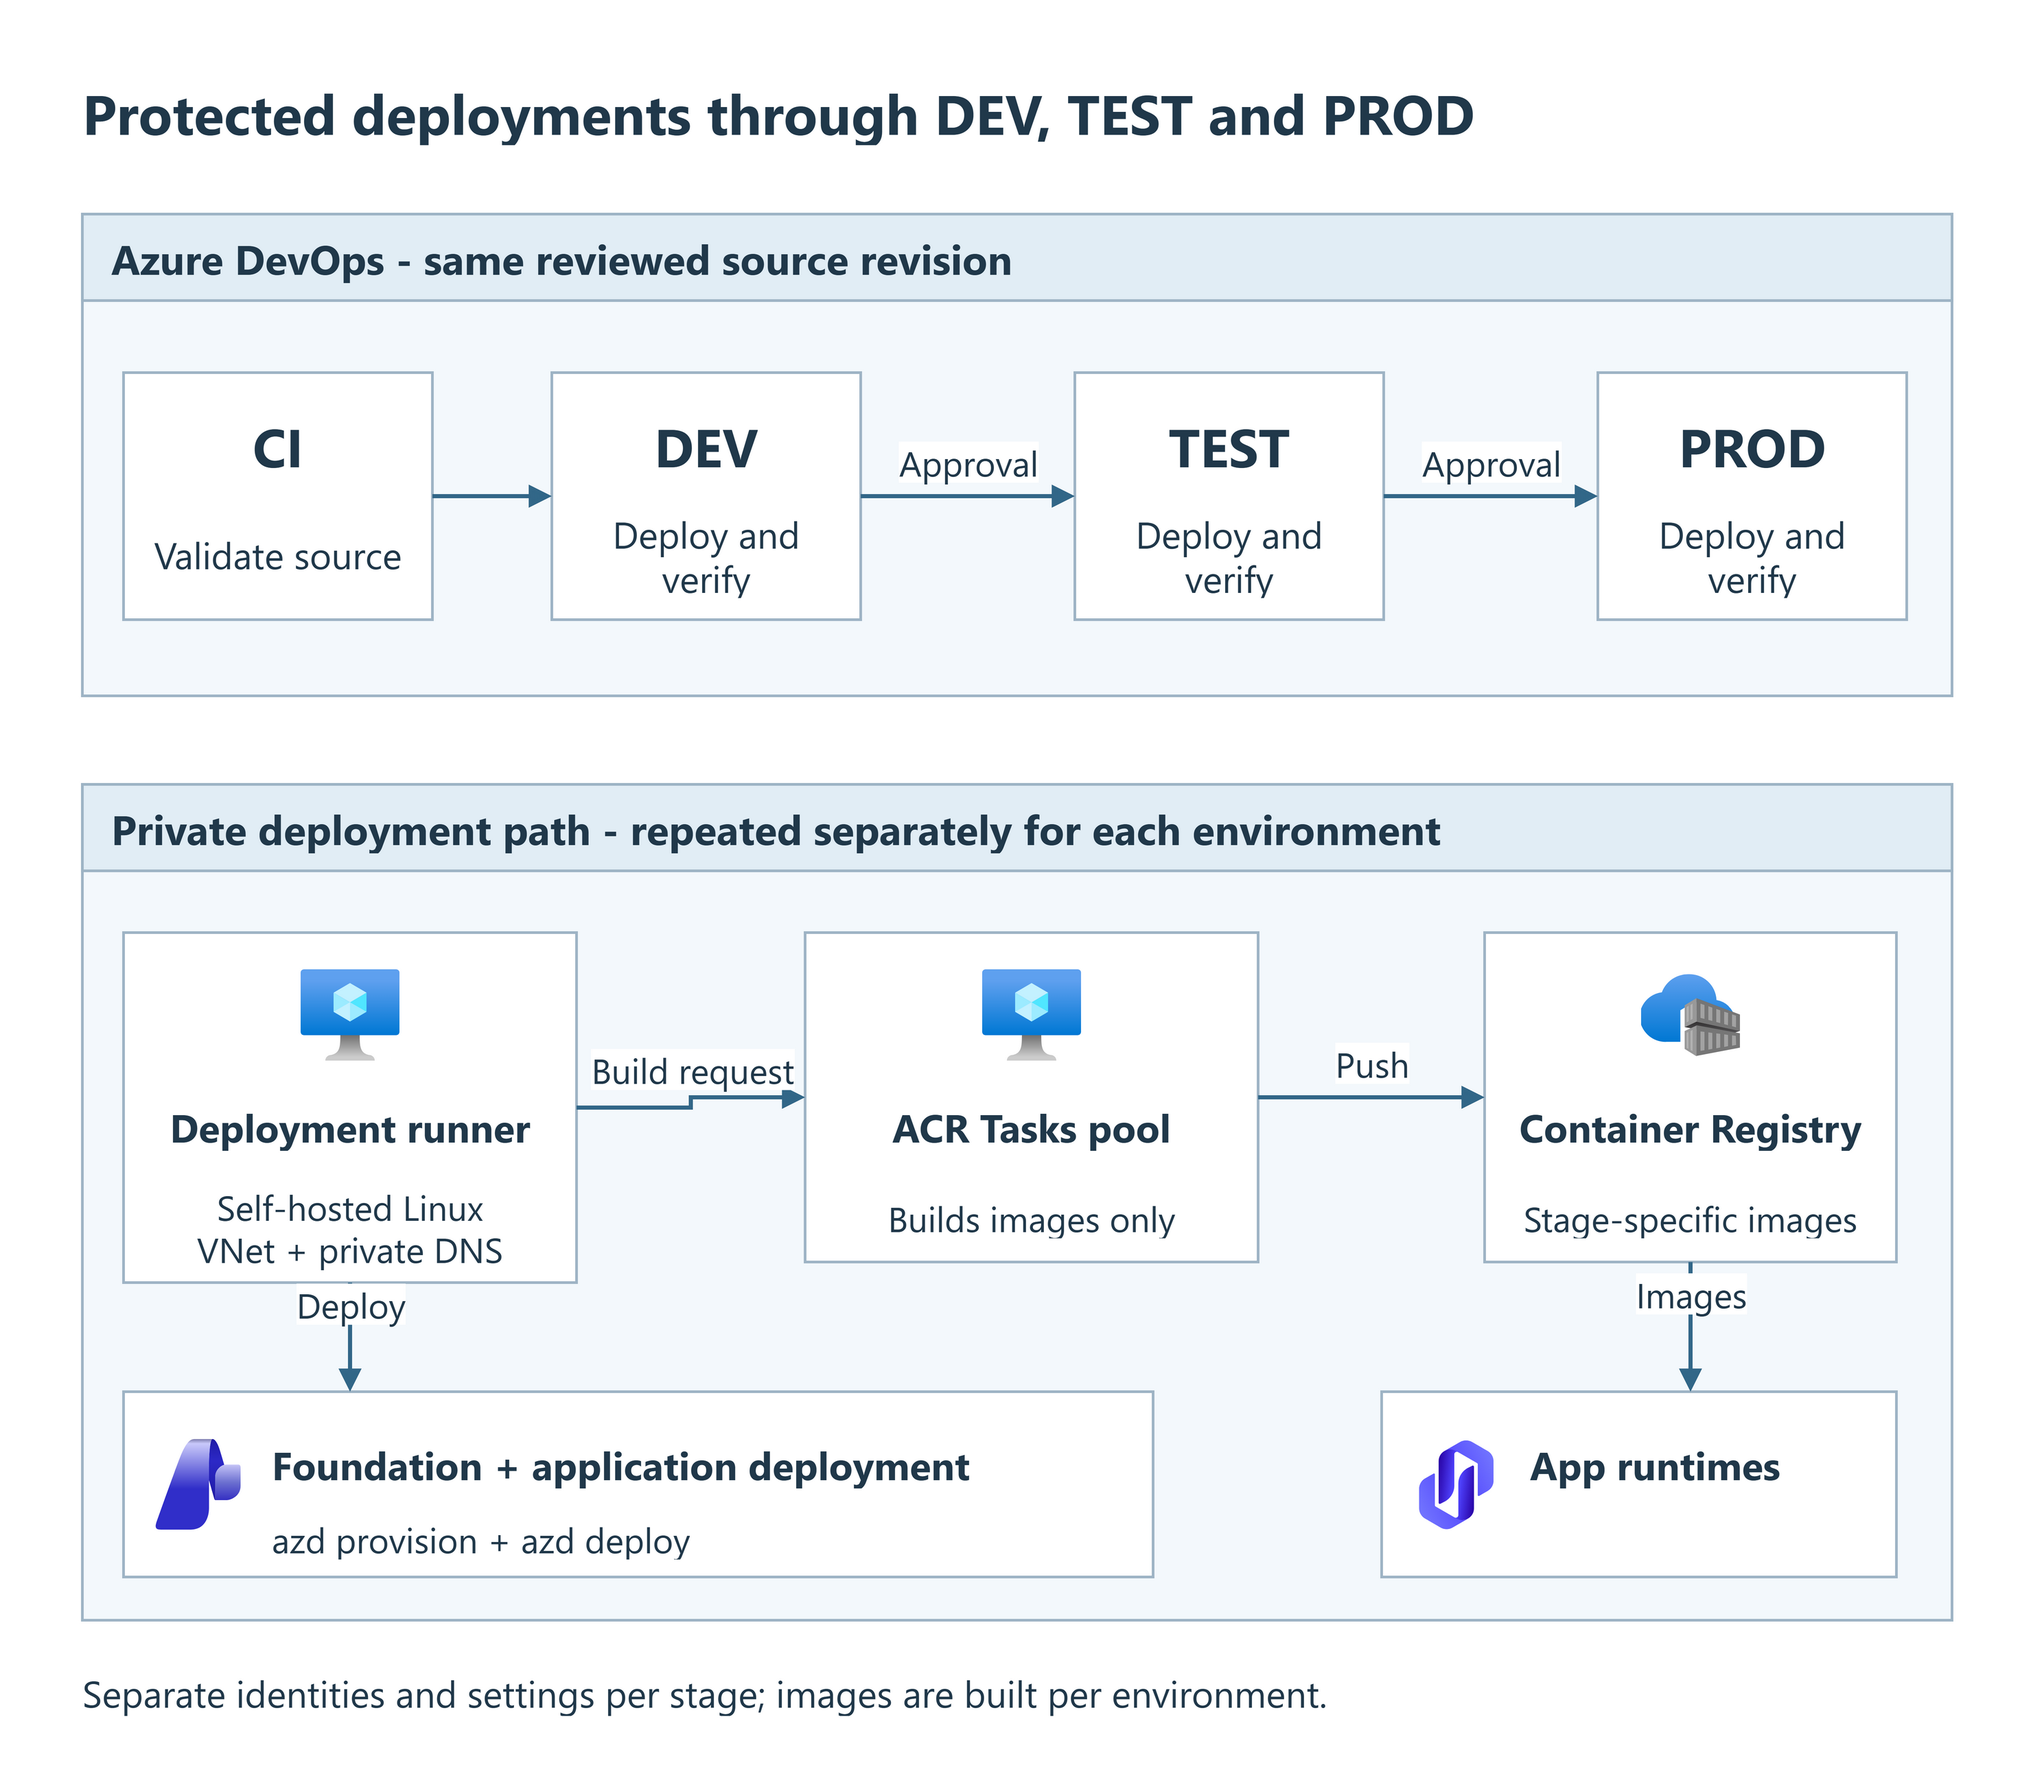
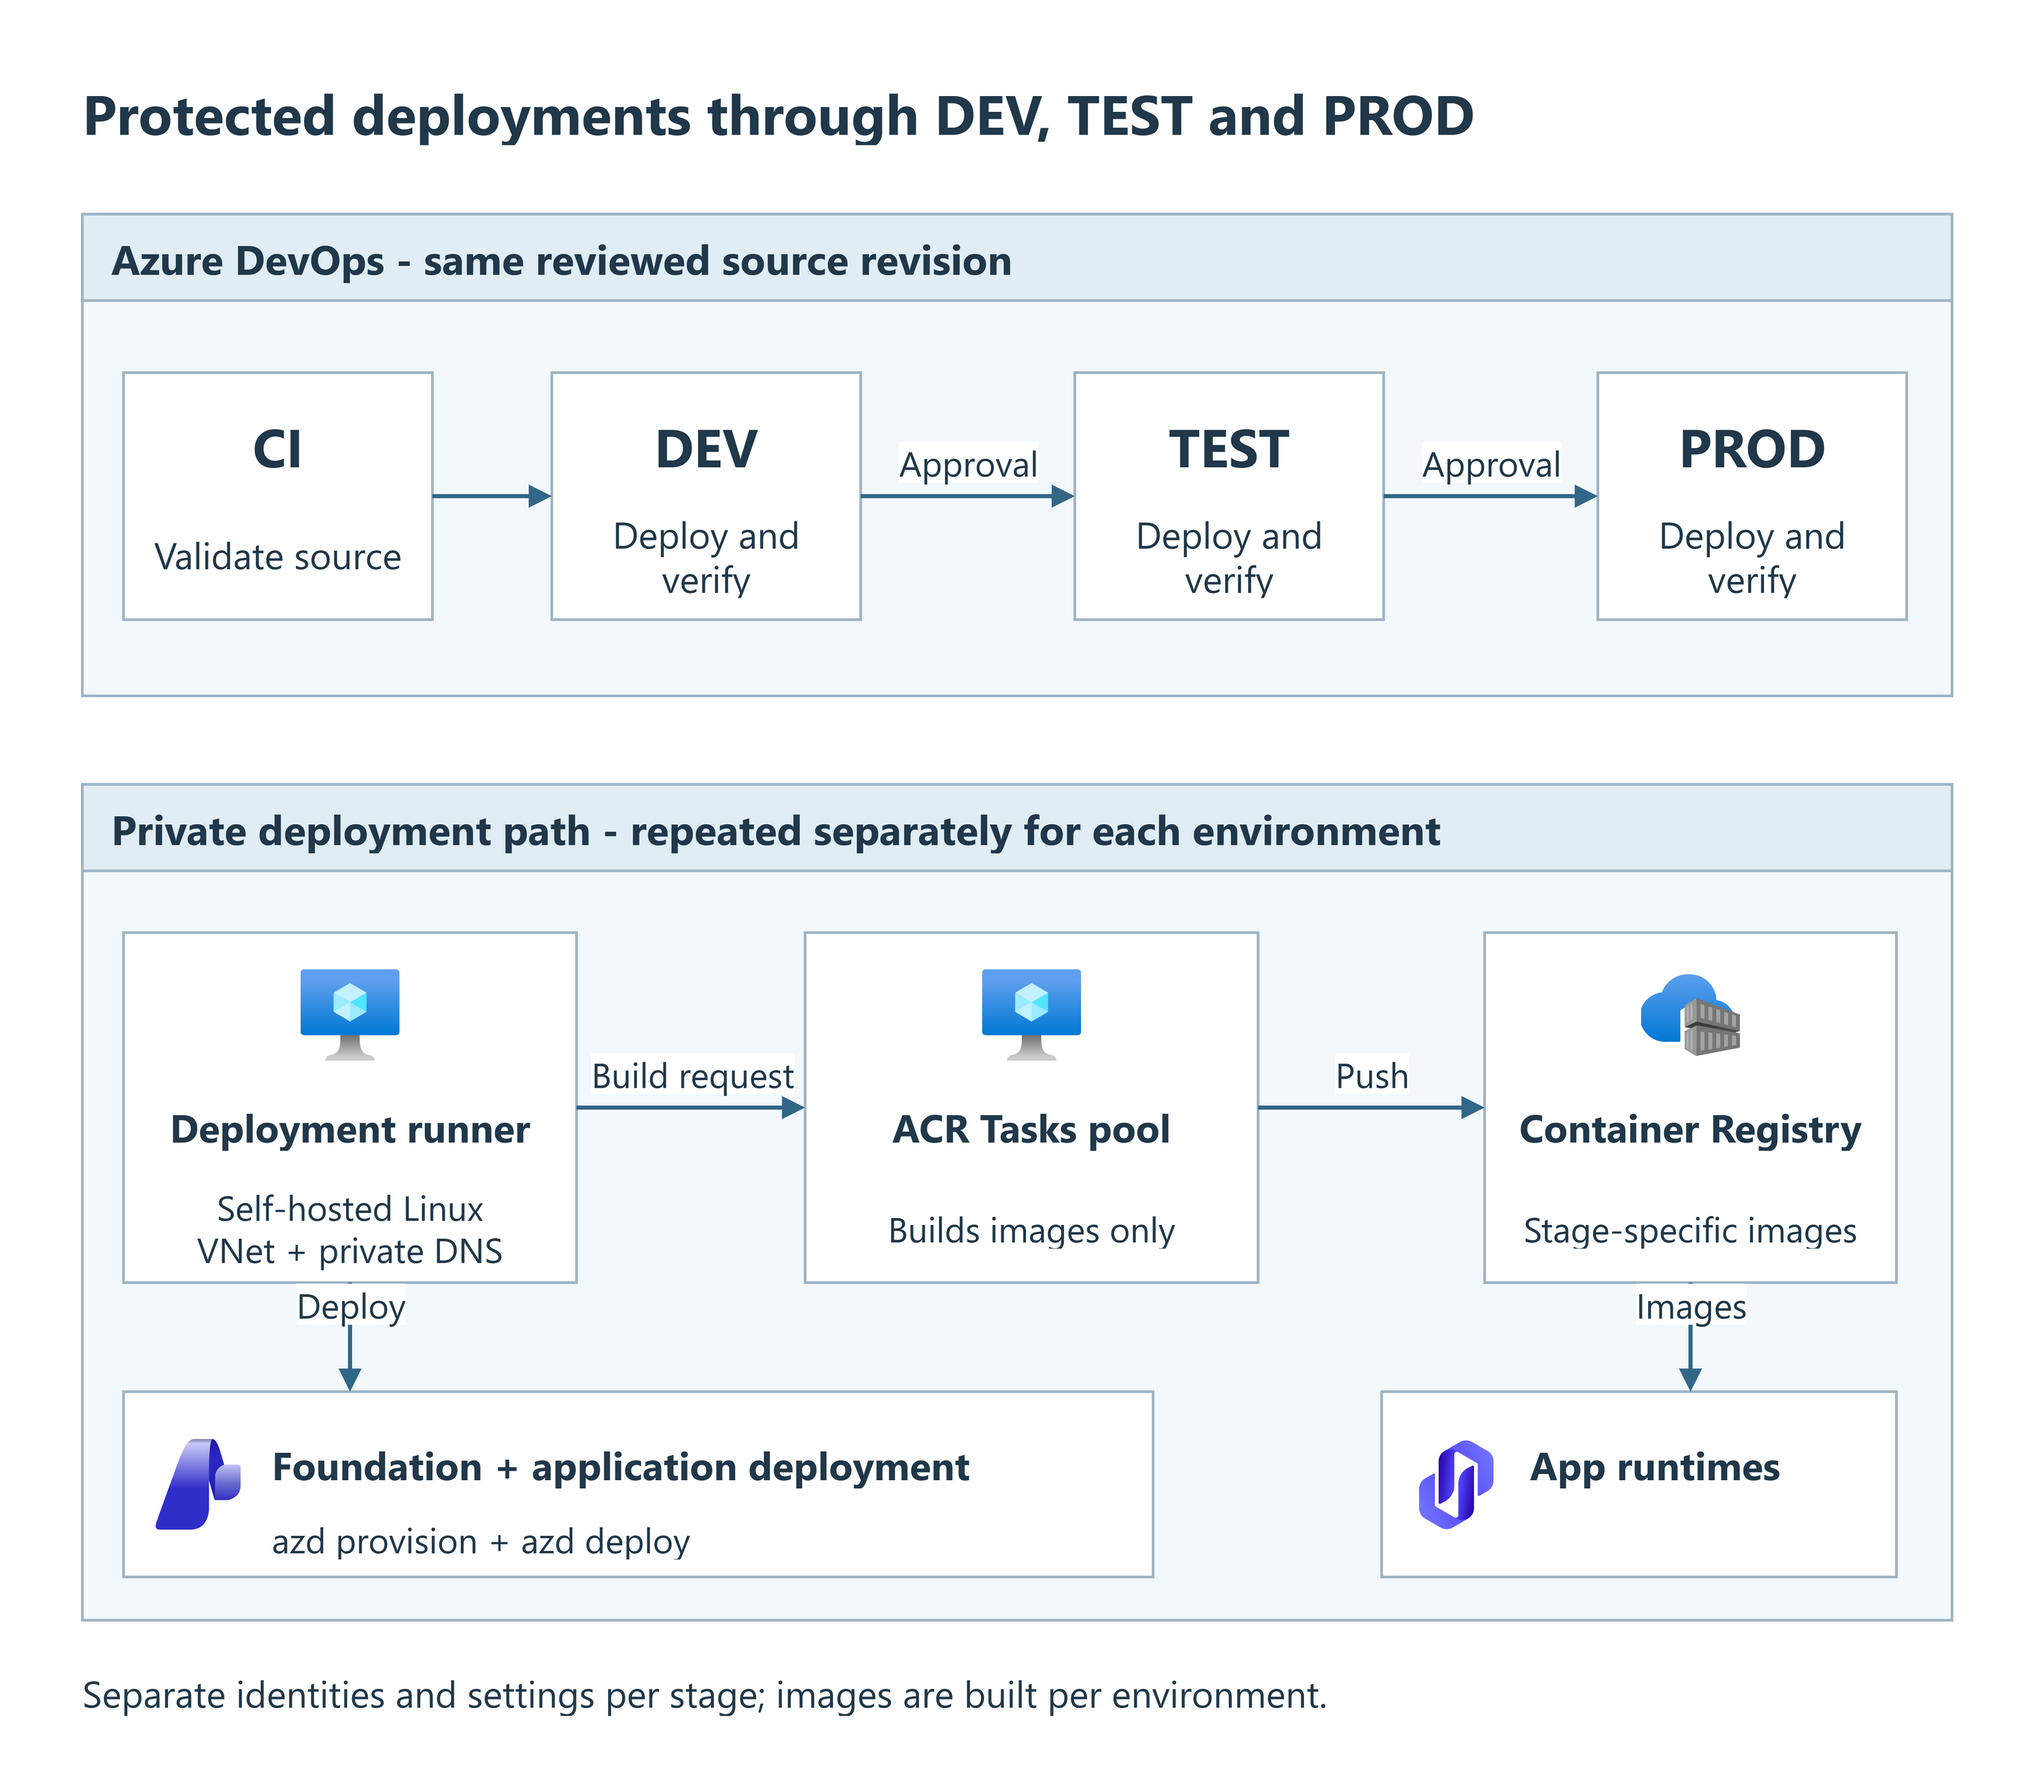
docs: clarify public Activity ingress and straighten runbook arrows

diff --git a/docs/agent-landing-zone/publish-to-teams.md b/docs/agent-landing-zone/publish-to-teams.md
@@ -18,9 +18,17 @@ template does not perform them.
 Your existing Foundry agent available in Teams and Microsoft 365 Copilot,
 with authenticated messages delivered through Azure Bot Service.
 
-![Teams and Microsoft 365 Copilot reach the hosted agent through Bot Service and restricted public Activity ingress. A separate setup path connects an admin workstation through a private endpoint to the Foundry project API.](../media/runbooks/publish-to-teams.png)
+!!! warning "This channel path is not private end to end"
+    Teams and Microsoft 365 Copilot deliver messages to a **public HTTPS
+    Activity endpoint**, restricted to Microsoft channel source IPs and
+    requiring authentication. They do **not** use the Foundry private endpoint.
 
-[Open the full-resolution diagram](../media/runbooks/publish-to-teams.png).
+    If your organization requires no public agent ingress, do not use this
+    publication path.
+
+![Teams and Microsoft 365 Copilot use Bot Service and a public HTTPS Activity route with source IP filtering and authentication. This is a scoped exception to disabled public network access, not Private Link. Publication setup uses a separate private endpoint path.](../media/runbooks/publish-to-teams.png?v=public-activity)
+
+[Open the full-resolution diagram](../media/runbooks/publish-to-teams.png?v=public-activity).
 
 The dashed path is for publication setup and later changes, not for Teams
 conversations.
@@ -31,13 +39,23 @@ Use this runbook after the hosted agent works and you need Teams or Microsoft
 365 Copilot distribution while Foundry public network access remains disabled. For a Copilot
 Studio private relay instead, use [Connect Copilot Studio](connect-copilot-studio.md).
 
-Foundry and Bot Service keep **public network access (PNA) disabled**. Following
-the [Foundry REST publishing flow](https://learn.microsoft.com/azure/foundry/agents/how-to/publish-copilot-virtual-network),
-you enable a restricted public HTTPS exception for the Activity route.
+Microsoft calls this a **source IP-filtered Activity Protocol public
+endpoint**: a public endpoint for the messaging route, restricted by the
+source IP addresses of Microsoft's channel services. See the
+[Foundry REST publishing flow](https://learn.microsoft.com/azure/foundry/agents/how-to/publish-copilot-virtual-network).
 
-Foundry allows only service-managed Microsoft channel source ranges and still
-requires authentication and authorization. Channel delivery uses this
-exception, not the Foundry private endpoint.
+Step 3 sets `activity.enable_m365_public_endpoint=true` to enable that
+**specific exception**. Foundry and Bot Service keep **public network access
+(PNA) disabled**; management APIs and other agent protocols remain private.
+
+| Path | Network access |
+| --- | --- |
+| Bot Service to the Activity endpoint | Public HTTPS, with Microsoft-managed source IP filtering and authentication. Not Private Link. |
+| Connected workstation to the Foundry project API | Private endpoint, for publication setup and later changes. |
+
+Microsoft manages the allowed source ranges. You do not open public ingress
+on your VNet. An allowed source IP still needs valid authentication and
+authorization; **public does not mean anonymous**.
 
 During setup, your connected workstation calls the **Foundry project API**
 through the private endpoint to read the agent configuration, enable Activity
@@ -291,9 +309,9 @@ URL, and its network setting is `"pna": "Disabled"`. The bot uses the agent's
 identity; you do not need a client secret, public VNet ingress or a custom
 connector.
 
-### Step 3: Enable the restricted Activity route
+### Step 3: Enable the source-IP-filtered public Activity route
 
-Run the block below to enable the restricted Activity route, apply the Bot
+Run the block below to enable the **public HTTPS Activity exception**, apply the Bot
 Service authorization scheme for your chosen audience and send traffic to the
 tested agent version. The block reads the current configuration so it can
 preserve the existing protocols and non-Bot authorization schemes. It also

diff --git a/docs/agent-landing-zone/network-isolation.md b/docs/agent-landing-zone/network-isolation.md
@@ -46,8 +46,13 @@ precedence in [Deployment settings](configuration.md#general) still apply.
 !!! note "Teams and Microsoft 365 Copilot publication"
     [Publish to Teams and M365](publish-to-teams.md) adds a manual, source-IP-filtered
     public exception for the Foundry Activity route while Foundry and Bot Service
-    public network access stays disabled. Channel delivery does not use Private
-    Link; other Foundry APIs remain private. The template does not enable this exception.
+    public network access stays disabled. Microsoft calls this a **source
+    IP-filtered Activity Protocol public endpoint**.
+
+    Channel messages use **public HTTPS, not Private Link**, so this path is
+    **not private end to end**. If public agent ingress is prohibited, do not
+    use that publication path. Other Foundry APIs remain private, and the
+    template does not enable this exception.
 
 The [Connect Copilot Studio](connect-copilot-studio.md) runbook describes an
 authenticated agent flow and Power Platform VNet delegation to reach the Foundry

diff --git a/docs/agent-landing-zone/azure-devops.md b/docs/agent-landing-zone/azure-devops.md
@@ -13,9 +13,9 @@ for an interactive deployment.
 One reviewed source revision promoted through DEV, TEST and PROD, with
 protected approvals and a private deployment path for each environment.
 
-![Azure DevOps promotes the same reviewed source from CI through DEV, TEST and PROD with approvals. A self-hosted deployment runner deploys resources; a separate ACR Tasks pool builds images for each environment.](../media/runbooks/azure-devops.png)
+![Azure DevOps promotes the same reviewed source from CI through DEV, TEST and PROD with approvals. A self-hosted deployment runner deploys resources; a separate ACR Tasks pool builds images for each environment.](../media/runbooks/azure-devops.png?v=straight-arrows)
 
-[Open the full-resolution diagram](../media/runbooks/azure-devops.png).
+[Open the full-resolution diagram](../media/runbooks/azure-devops.png?v=straight-arrows).
 
 Each environment builds its own images from the reviewed source. The pipeline
 does not promote one identical image between environments.
